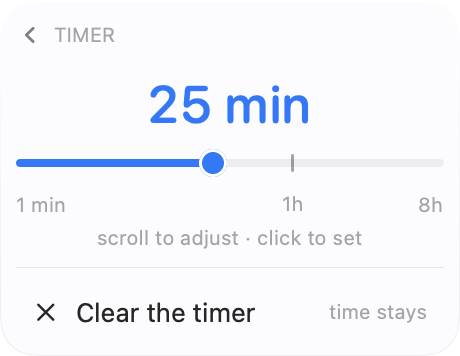
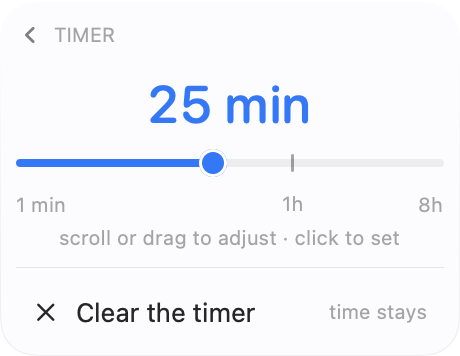
timer: the knob moves when asked to, not when hovered
Reported: the slider slid under the pointer. It now moves on a press, a
drag or the wheel; hovering only lights the knob up.

That leaves the wheel needing a way to end in a click, so a press keeps
the length already chosen in the two cases where re-reading it from the
cursor would throw it away: when the press lands on the knob (wider than
a slot), and when it follows a scroll with no mouse movement in between.
Move the cursor first and a click still means the spot you clicked.

Changed region(s): [[0.1217, 0.6489, 0.8826, 0.7107]]

diff --git a/Sources/Hypertime/Views/Components/TimerSlider.swift b/Sources/Hypertime/Views/Components/TimerSlider.swift
@@ -5,18 +5,18 @@ import HypertimeCore
 /// The timer picker (T-10): one sweep from a minute to eight hours over `TimerLadder`'s slots,
 /// so the first hour — where nearly every timer lands — gets two thirds of the travel.
 ///
-/// The knob follows the pointer, the wheel nudges it a slot at a time, and a click takes
-/// whatever the readout says. There is no separate confirm step, so the one rule that has to
-/// hold is that the readout is always the truth: it names the pointer's slot while hovering,
-/// the scrolled slot after a scroll, and that is what a click sets.
+/// The knob moves when you ask it to and never otherwise: press the track and it goes there,
+/// drag it, or roll the wheel over it a slot at a time. Hovering changes nothing. Letting go
+/// sets the timer, so what the readout says when you release is what you get.
 struct TimerSlider: View {
     /// The timer already on the task, marked on the track so it can be found again.
     var current: Seconds?
     var onPick: (Seconds) -> Void
 
     @State private var index: Int
-    @State private var pointer: Double?
+    @State private var grabOffset: CGFloat = 0
     @State private var isHovering = false
+    @State private var isDragging = false
     @Environment(\.accessibilityReduceMotion) private var reduceMotion
 
     /// With nothing set yet the slider opens on the length people actually reach for.
@@ -28,14 +28,7 @@ struct TimerSlider: View {
         _index = State(initialValue: TimerLadder.index(nearest: current ?? Self.opening))
     }
 
-    /// The pointer wins while it is over the track; a scroll takes it back until the mouse
-    /// moves again. Everything on screen reads from here.
-    private var shownIndex: Int {
-        if let pointer { return TimerLadder.index(atFraction: pointer) }
-        return index
-    }
-
-    private var shownSeconds: Seconds { TimerLadder.seconds(at: shownIndex) }
+    private var shownSeconds: Seconds { TimerLadder.seconds(at: index) }
 
     private var motion: Animation? {
         Tokens.Motion.highlightMove.animation(reduceMotion: reduceMotion)
@@ -51,7 +44,7 @@ struct TimerSlider: View {
                 }
             }
             .frame(height: Tokens.Slider.bandHeight + Tokens.Slider.scaleHeight + Tokens.Space.s1)
-            Text("scroll to adjust · click to set")
+            Text("scroll or drag to adjust · click to set")
                 .font(Tokens.Typography.keyboardHint)
                 .foregroundStyle(Tokens.Palette.textTertiary.color)
                 .frame(maxWidth: .infinity, alignment: .center)
@@ -67,26 +60,38 @@ struct TimerSlider: View {
             .frame(maxWidth: .infinity, alignment: .center)
     }
 
-    // MARK: - Track
+    // MARK: - Geometry
 
     /// Knob centres are inset by its radius, so neither end of the sweep is clipped.
     private func knobX(width: CGFloat) -> CGFloat {
-        x(forFraction: TimerLadder.fraction(ofIndex: shownIndex), width: width)
+        x(forFraction: TimerLadder.fraction(ofIndex: index), width: width)
     }
 
     private func x(forFraction fraction: Double, width: CGFloat) -> CGFloat {
         Self.radius + CGFloat(fraction) * Self.span(width)
     }
 
-    /// The inverse: where the pointer is, in the same space. Without this the knob would lag
-    /// the cursor by up to a knob radius at the ends of the sweep, and the control's one rule
-    /// is that what is under the cursor is what you get.
+    /// The inverse: a position on the track, in the same inset space the knob is drawn in, so
+    /// pressing the track puts the knob exactly where the cursor is at every point of the sweep.
     static func fraction(forX x: CGFloat, width: CGFloat) -> Double {
         min(max(Double((x - radius) / span(width)), 0), 1)
     }
 
+    /// Whether a press landed on the knob rather than on bare track. A press on the knob
+    /// keeps its value: a knob is wider than a slot, so re-reading the value from the cursor
+    /// would quietly shift it by a slot or two on the way out.
+    static func isOnKnob(pressX: CGFloat, knobX: CGFloat) -> Bool {
+        abs(pressX - knobX) <= Tokens.Slider.knob / 2
+    }
+
     private static let radius = Tokens.Slider.knob / 2
     private static func span(_ width: CGFloat) -> CGFloat { max(width - 2 * radius, 1) }
+
+    private func move(to x: CGFloat, width: CGFloat) {
+        index = TimerLadder.index(atFraction: Self.fraction(forX: x + grabOffset, width: width))
+    }
+
+    // MARK: - Track
 
     private func track(width: CGFloat) -> some View {
         let knob = knobX(width: width)
@@ -109,24 +114,36 @@ struct TimerSlider: View {
                 .fill(Tokens.Palette.accent)
                 .overlay { Circle().strokeBorder(Tokens.Palette.onAccent.color, lineWidth: Tokens.Slider.knobRing) }
                 .frame(width: Tokens.Slider.knob, height: Tokens.Slider.knob)
-                .scaleEffect(isHovering ? Tokens.Slider.knobHoverScale : 1)
+                .scaleEffect(isHovering || isDragging ? Tokens.Slider.knobHoverScale : 1)
                 .offset(x: knob - Tokens.Slider.knob / 2)
         }
         .frame(height: Tokens.Slider.bandHeight)
-        .animation(motion, value: shownIndex)
+        // A dragged knob tracks the cursor with no easing; everything else glides.
+        .animation(isDragging ? nil : motion, value: index)
         .animation(motion, value: isHovering)
         .overlay {
             SliderInteraction(
-                onPointer: { x in
-                    pointer = x.map { Self.fraction(forX: $0, width: width) }
-                    isHovering = x != nil
+                onHover: { isHovering = $0 },
+                onPress: { x, keepsValue in
+                    isDragging = true
+                    let knob = knobX(width: width)
+                    if keepsValue || Self.isOnKnob(pressX: x, knobX: knob) {
+                        // Hold the length that is already chosen and let a drag move it from
+                        // there, rather than throwing it away for whatever is under the cursor.
+                        grabOffset = knob - x
+                    } else {
+                        grabOffset = 0
+                        move(to: x, width: width)
+                    }
+                },
+                onDrag: { x in move(to: x, width: width) },
+                onRelease: {
+                    isDragging = false
+                    onPick(shownSeconds)
                 },
                 onScroll: { steps in
-                    // A scroll takes the knob off the pointer: it is now the one being aimed.
-                    index = min(max(shownIndex + steps, 0), TimerLadder.slots.count - 1)
-                    pointer = nil
-                },
-                onCommit: { onPick(shownSeconds) }
+                    index = min(max(index + steps, 0), TimerLadder.slots.count - 1)
+                }
             )
         }
     }
@@ -158,31 +175,41 @@ struct TimerSlider: View {
 
 // MARK: - Pointer and wheel
 
-/// Pointer tracking, scroll wheel and click for the slider, in one AppKit view.
+/// Press, drag, release, wheel and hover for the slider, in one AppKit view.
 ///
-/// SwiftUI on macOS 15 has no scroll-wheel event, and its gestures cannot tell a hover from a
-/// drag — both of which this control is built on. Positions are reported as a fraction of the
-/// view's width so the SwiftUI side owns every pixel of the drawing.
+/// SwiftUI on macOS 15 has no scroll-wheel event, and a `DragGesture` cannot report a press
+/// before the finger has travelled — both of which this control is built on. Positions arrive
+/// as points inside the view so the SwiftUI side owns every pixel of the drawing.
 struct SliderInteraction: NSViewRepresentable {
-    /// The pointer's x inside the track, or nil when it leaves.
-    var onPointer: (CGFloat?) -> Void
+    var onHover: (Bool) -> Void
+    /// The press position, and whether it should keep the length already chosen — true for a
+    /// click that follows a scroll with no mouse movement in between.
+    var onPress: (CGFloat, Bool) -> Void
+    var onDrag: (CGFloat) -> Void
+    var onRelease: () -> Void
     var onScroll: (Int) -> Void
-    var onCommit: () -> Void
 
     func makeNSView(context: Context) -> TrackingView { TrackingView() }
 
     func updateNSView(_ view: TrackingView, context: Context) {
-        view.onPointer = onPointer
+        view.onHover = onHover
+        view.onPress = onPress
+        view.onDrag = onDrag
+        view.onRelease = onRelease
         view.onScroll = onScroll
-        view.onCommit = onCommit
     }
 
     final class TrackingView: NSView {
-        var onPointer: ((CGFloat?) -> Void)?
+        var onHover: ((Bool) -> Void)?
+        var onPress: ((CGFloat, Bool) -> Void)?
+        var onDrag: ((CGFloat) -> Void)?
+        var onRelease: (() -> Void)?
         var onScroll: ((Int) -> Void)?
-        var onCommit: (() -> Void)?
 
         private var isDragging = false
+        /// Set by the wheel and cleared by the first real mouse movement: a click straight
+        /// after a scroll means "that one", while moving the cursor first means "that spot".
+        private var keepsValue = false
         private var wheelTravel: CGFloat = 0
         /// Trackpad deltas arrive in points; this many of them is one slot.
         private let travelPerStep: CGFloat = 6
@@ -200,24 +227,32 @@ struct SliderInteraction: NSViewRepresentable {
             convert(event.locationInWindow, from: nil).x
         }
 
-        override func mouseEntered(with event: NSEvent) { onPointer?(pointerX(event)) }
-        override func mouseMoved(with event: NSEvent) { onPointer?(pointerX(event)) }
-        override func mouseDragged(with event: NSEvent) { onPointer?(pointerX(event)) }
+        /// Hovering is a cursor state, nothing more: the knob stays where it was put. The
+        /// only thing movement does is retire a scroll's claim on the next click.
+        override func mouseEntered(with event: NSEvent) { onHover?(true) }
+
+        override func mouseMoved(with event: NSEvent) { keepsValue = false }
 
         override func mouseExited(with event: NSEvent) {
             // A drag that wanders off the track is still a drag.
             guard !isDragging else { return }
-            onPointer?(nil)
+            onHover?(false)
         }
 
         override func mouseDown(with event: NSEvent) {
             isDragging = true
-            onPointer?(pointerX(event))
+            onPress?(pointerX(event), keepsValue)
+            keepsValue = false
+        }
+
+        override func mouseDragged(with event: NSEvent) {
+            guard isDragging else { return }
+            onDrag?(pointerX(event))
         }
 
         override func mouseUp(with event: NSEvent) {
             isDragging = false
-            onCommit?()
+            onRelease?()
         }
 
         override func scrollWheel(with event: NSEvent) {
@@ -228,6 +263,7 @@ struct SliderInteraction: NSViewRepresentable {
             let delta = abs(vertical) >= abs(horizontal) ? vertical : horizontal
             guard delta != 0 else { return }
 
+            keepsValue = true
             guard event.hasPreciseScrollingDeltas else {
                 onScroll?(delta > 0 ? 1 : -1)
                 return

diff --git a/Sources/Hypertime/App/SelfTest.swift b/Sources/Hypertime/App/SelfTest.swift
@@ -752,33 +752,46 @@ enum SelfTest {
     }
 
     /// The timer slider, driven through the real AppKit view the way a mouse drives it.
-    /// The maths has its own tests in core; what is checked here is the plumbing — the pointer
-    /// conversion, the wheel's direction and the click — which is where this kind of control
+    /// The ladder has its own tests in core; what is checked here is the plumbing — hovering,
+    /// the press, the wheel's direction and the release — which is where this kind of control
     /// actually breaks.
     private static func checkTimerSlider() {
-        let width: CGFloat = 186
-        let view = SliderInteraction.TrackingView(frame: NSRect(x: 0, y: 0, width: width, height: 22))
-        var pointer: CGFloat?
+        let width = Tokens.Size.taskMenuWidth - 2 * Tokens.Space.s2
+        let middle = NSPoint(x: width / 2, y: Tokens.Slider.bandHeight / 2)
+        let view = SliderInteraction.TrackingView(
+            frame: NSRect(x: 0, y: 0, width: width, height: Tokens.Slider.bandHeight))
+        var pressed: CGFloat?
+        var dragged: CGFloat?
+        var releases = 0
         var steps = 0
-        var commits = 0
-        view.onPointer = { pointer = $0 }
+        var hovering = false
+        view.onHover = { hovering = $0 }
+        view.onPress = { x, _ in pressed = x }
+        view.onDrag = { dragged = $0 }
+        view.onRelease = { releases += 1 }
         view.onScroll = { steps += $0 }
-        view.onCommit = { commits += 1 }
 
-        func move(to x: CGFloat) {
-            view.mouseMoved(with: mouseEvent(.mouseMoved, at: NSPoint(x: x, y: 11)))
-        }
+        // Reported: the knob slid under the pointer. Hovering is a cursor state, nothing more.
+        view.mouseEntered(with: mouseEvent(.mouseMoved, at: middle))
+        view.mouseMoved(with: mouseEvent(.mouseMoved, at: NSPoint(x: width * 0.8, y: middle.y)))
+        check("hovering the slider moves nothing", pressed == nil && dragged == nil && releases == 0)
+        check("…though the knob lights up under the cursor", hovering)
+        view.mouseExited(with: mouseEvent(.mouseMoved, at: NSPoint(x: -4, y: middle.y)))
+        check("…and settles again when the cursor leaves", !hovering)
+
+        /// One click on the track, and the length it lands on.
         func slot(at x: CGFloat) -> Seconds {
-            move(to: x)
-            guard let pointer else { return -1 }
+            pressed = nil
+            view.mouseDown(with: mouseEvent(.leftMouseDown, at: NSPoint(x: x, y: middle.y)))
+            view.mouseUp(with: mouseEvent(.leftMouseUp, at: NSPoint(x: x, y: middle.y)))
+            guard let pressed else { return -1 }
             return TimerLadder.seconds(at: TimerLadder.index(
-                atFraction: TimerSlider.fraction(forX: pointer, width: width)))
+                atFraction: TimerSlider.fraction(forX: pressed, width: width)))
         }
 
         // The knob lands under the cursor at both ends, not a knob radius short of them.
         check("the slider's left end is one minute", slot(at: 0) == 60, "\(slot(at: 0)) s")
         check("…and its right end is eight hours", slot(at: width) == 8 * 3600, "\(slot(at: width)) s")
-        // Two thirds of the travel is spent inside the first hour (T-10).
         let radius = Tokens.Slider.knob / 2
         let step = (width - Tokens.Slider.knob) / CGFloat(TimerLadder.slots.count - 1)
         let hourFraction = TimerLadder.fraction(ofIndex: TimerLadder.index(nearest: 3600))
@@ -797,17 +810,42 @@ enum SelfTest {
               slot(at: longEnd + step) - slot(at: longEnd) == 3600,
               "\(slot(at: longEnd)) s then \(slot(at: longEnd + step)) s")
 
-        move(to: width / 2)
-        let middle = pointer
-        view.mouseExited(with: mouseEvent(.mouseMoved, at: NSPoint(x: -4, y: 11)))
-        check("the knob goes back to the set value when the pointer leaves", pointer == nil)
+        // A knob is wider than a slot, so the click that confirms a scrolled length has to
+        // keep it rather than re-read it from the cursor.
+        let knobX = radius + 10 * step
+        check("a press on the knob keeps its value",
+              TimerSlider.isOnKnob(pressX: knobX + radius - 1, knobX: knobX))
+        check("…while a press on bare track takes the cursor's",
+              !TimerSlider.isOnKnob(pressX: knobX + Tokens.Slider.knob, knobX: knobX))
 
-        // A drag that wanders off the track is still a drag.
-        view.mouseDown(with: mouseEvent(.leftMouseDown, at: NSPoint(x: width / 2, y: 11)))
-        view.mouseExited(with: mouseEvent(.mouseMoved, at: NSPoint(x: -4, y: 11)))
-        check("…but a drag off the edge keeps hold of it", pointer == middle)
-        view.mouseUp(with: mouseEvent(.leftMouseUp, at: NSPoint(x: width / 2, y: 11)))
-        check("a click sets the timer", commits == 1)
+        // Reported the other way round at first: a click had to be able to accept what the
+        // wheel had just chosen, wherever the cursor happened to be sitting.
+        var keptValue: Bool?
+        view.onPress = { _, keeps in keptValue = keeps }
+        if let up = wheelEvent(1) { view.scrollWheel(with: up) }
+        view.mouseDown(with: mouseEvent(.leftMouseDown, at: NSPoint(x: 4, y: middle.y)))
+        view.mouseUp(with: mouseEvent(.leftMouseUp, at: NSPoint(x: 4, y: middle.y)))
+        check("a click straight after a scroll takes the scrolled length", keptValue == true)
+        if let up = wheelEvent(1) { view.scrollWheel(with: up) }
+        view.mouseMoved(with: mouseEvent(.mouseMoved, at: NSPoint(x: width * 0.3, y: middle.y)))
+        view.mouseDown(with: mouseEvent(.leftMouseDown, at: NSPoint(x: width * 0.3, y: middle.y)))
+        view.mouseUp(with: mouseEvent(.leftMouseUp, at: NSPoint(x: width * 0.3, y: middle.y)))
+        check("…but moving the cursor first means the spot you clicked", keptValue == false)
+        view.onPress = { x, _ in pressed = x }
+        steps = 0
+        releases = 0
+
+        releases = 0
+        dragged = nil
+        view.mouseDown(with: mouseEvent(.leftMouseDown, at: middle))
+        view.mouseDragged(with: mouseEvent(.leftMouseDragged, at: NSPoint(x: width * 0.9, y: middle.y)))
+        check("a drag moves the knob", dragged != nil)
+        check("…without setting anything until it is let go", releases == 0)
+        view.mouseExited(with: mouseEvent(.mouseMoved, at: NSPoint(x: -4, y: middle.y)))
+        view.mouseDragged(with: mouseEvent(.leftMouseDragged, at: NSPoint(x: width * 0.95, y: middle.y)))
+        check("…and a drag off the edge is still a drag", dragged == width * 0.95)
+        view.mouseUp(with: mouseEvent(.leftMouseUp, at: NSPoint(x: width * 0.95, y: middle.y)))
+        check("releasing sets the timer", releases == 1)
 
         if let up = wheelEvent(1), let down = wheelEvent(-1) {
             view.scrollWheel(with: up)
@@ -815,6 +853,7 @@ enum SelfTest {
             view.scrollWheel(with: down)
             view.scrollWheel(with: down)
             check("…and shortens it scrolling down", steps == -1, "\(steps)")
+            check("…without setting anything on its own", releases == 1)
         } else {
             note("scroll wheel not measured: synthetic wheel events unavailable")
         }

diff --git a/docs/DECISIONS.md b/docs/DECISIONS.md
@@ -55,7 +55,7 @@ Everything in `PLAN.md` has been built. What remains needs a person, not more co
   R-08/R-09/R-10 focus behaviour with another app frontmost, D-14 hover cancelling the
   auto-hide, A-01 lid close or screen lock, R-16 login item registered from `/Applications`,
   popup placement on a second display, and how the live glass reads with Reduce Transparency on.
-  Everything else in that checklist is covered by `swift test` (144) and `--self-test` (167).
+  Everything else in that checklist is covered by `swift test` (144) and `--self-test` (176).
 - **The commit bounce's 3D tilt**, shipped scale-only: it cannot be verified without watching
   the live panel, which this machine cannot photograph. See the 2026-09-08 `motion.commit` row.
 - **Developer ID release.** `scripts/release.sh` was verified in `--adhoc` mode. Signing with
@@ -125,7 +125,8 @@ Everything in `PLAN.md` has been built. What remains needs a person, not more co
 | 2026-10-16 | T-01 | ↩ on a pending task **always** commits it: `commitNewTask()` reports whether it succeeded, the title is never discarded, and a task typed before a project exists falls back to the current project and otherwise says "Name a project first" under the row rather than vanishing. The field takes the keyboard the moment the row appears. | Reported: "I once lost a task — it just disappeared on enter and never showed up in the list." Committing could fail silently when no project resolved, and end-of-editing then cleared the row. The invariant the self-test now pins is the user's own: ↩ never loses what was typed. |
 | 2026-10-16 | §7.6 | `--screenshots` paints a stand-in popover background behind the views that are hosted in an `NSPopover` — the overflow menu, the day picker, the pause chooser and the task menu. | Their chrome comes from AppKit, not from the view, so the renders were near-blank: white-on-transparent text, with only the destructive red legible. Four screens that could not be design-QA'd at all, the ⋯ menu among them. |
 | 2026-10-16 | T-10 | The timer is a **slider** over `TimerLadder`'s 36 slots, not a list of four lengths. The ladder runs 1 minute to 8 hours and coarsens as it climbs — every minute to a quarter hour, fives to the hour, quarters to two hours, halves to four, then hours — so the same five points of travel buy a minute at the short end and an hour at the top, and two thirds of the sweep is spent inside the first hour. | User request. Four fixed lengths were a guess at which ones matter, and anything else meant abandoning the menu. A linear 1 min … 8 h slider would spend four fifths of its travel on lengths nobody sets. The ladder lives in core, so the scale is tested without a view. |
-| 2026-10-16 | T-10 | The knob follows the pointer, the wheel nudges it a slot at a time (a scroll takes the knob off the pointer until the mouse moves again), and a click commits whatever the readout says. No separate confirm. | User: "react to mouse-wheel on hover. Submit on click." The one rule that makes a confirm step unnecessary is that the readout is always the truth — so the pointer→value mapping uses the same knob-radius inset as the drawing, and the knob sits exactly under the cursor at both ends of the sweep rather than a radius short of them. |
+| 2026-10-16 | T-10 | ~~The knob follows the pointer~~ — **see the row below.** The wheel nudges it a slot at a time and a click commits whatever the readout says, with no separate confirm. The press→value mapping uses the same knob-radius inset as the drawing, so the knob lands exactly under the cursor at both ends of the sweep rather than a radius short of them. |
+| 2026-10-16 | T-10 | **Reverses the hover half of the row above.** The knob moves on a press, a drag or the wheel, and never on hover alone; hovering only lights it up. A press keeps the length already chosen when it lands on the knob, or when it follows a scroll with no mouse movement in between — otherwise it jumps to the cursor. Releasing sets the timer. | Reported: "the slider slides on hover. That is not intended." Hover-follow made "a click takes the readout" trivially true but put a live control under a cursor that was only passing through. The two keep-the-value cases are what let the wheel path end in a click: a knob is wider than a slot, and a scroll leaves the knob nowhere near the cursor, so re-reading the value from the click would quietly discard what was just chosen. Moving the cursor first still means "that spot". |
 | 2026-10-16 | T-10 | The track carries two ticks: the hour, and the timer already on the task. The scale under it is labelled 1 min · 1h · 8h at their true positions. | A non-linear axis that does not show its own scale is a lie. The hour at two thirds of the way along is the whole shape of the ladder in one mark, and the second tick is how you find your way back to what was set once the knob has followed your pointer away from it. |
 | 2026-10-16 | §8 | The slider's AppKit view is driven directly in `--self-test` with synthetic mouse and wheel events: ends of the sweep, where the hour lands, a slot's worth of travel at each end, the wheel's direction, a drag that leaves the track, and the click. | SwiftUI has no scroll-wheel event on macOS 15 and its gestures cannot tell a hover from a drag, so the whole control runs on one `NSView` — which is exactly the layer the earlier rounds proved view-model checks cannot see. |
 | 2026-10-16 | T-05 | Clearing a timer leaves every second the task has tracked where it was, and the menu row says so ("time stays"). A test pins both the task's seconds and the project's day total across a clear. | User: "Timers can be removed, does not change the tracked time for that task. The timer is simply a nudge." It was already true — `setTaskTimer` only writes `task.timer_seconds` — but an invariant nobody asserts is an invariant waiting to be broken. |
